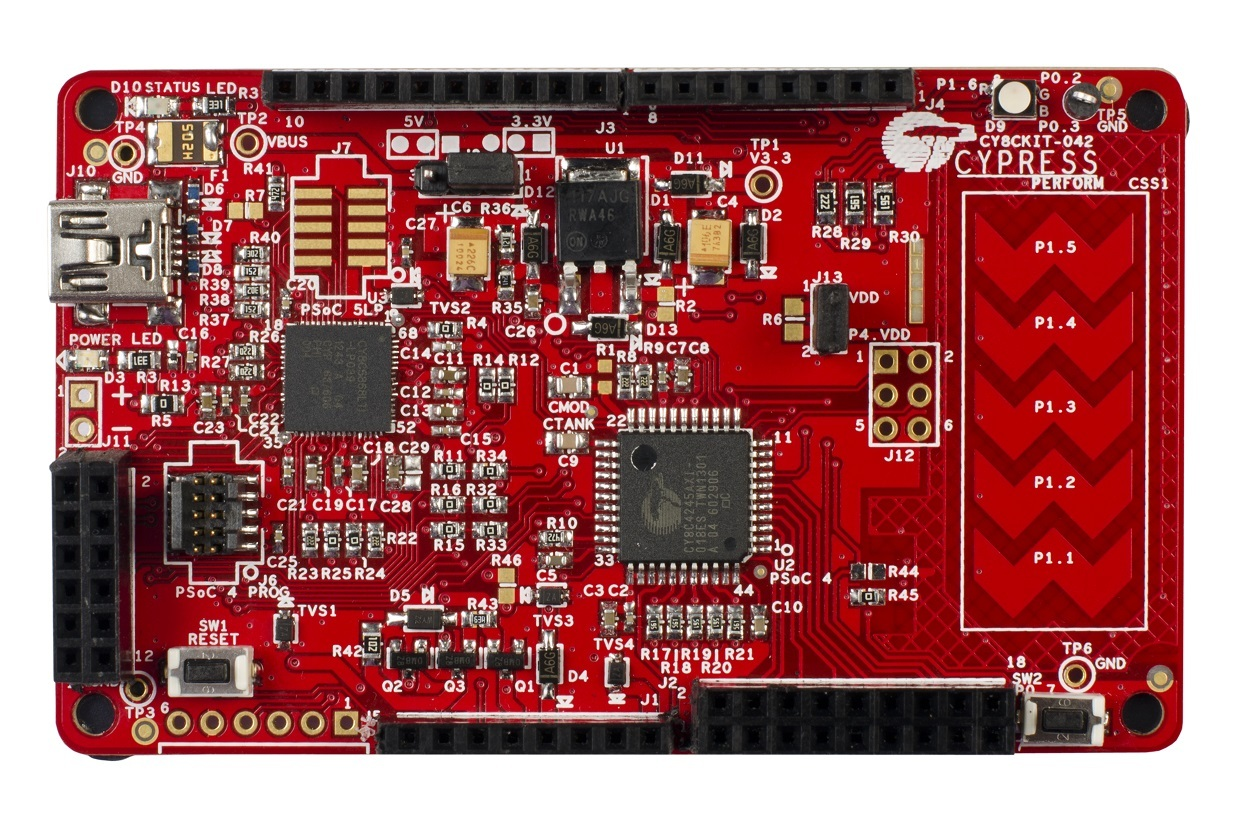
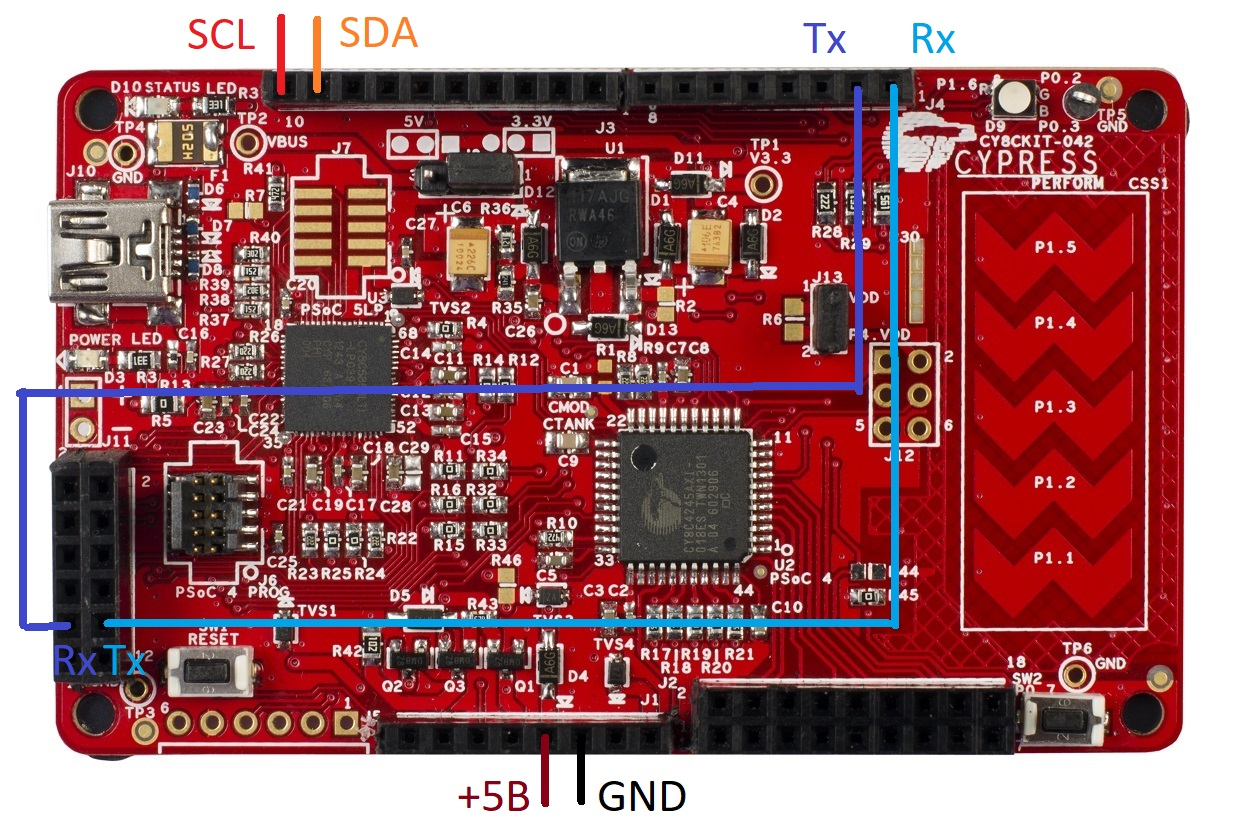
Text and pictures updates

diff --git a/manual/README.md b/manual/README.md
@@ -38,18 +38,24 @@
 
 ## Схема підключення ##
 
-| Сигнал        | Порт  | Вивід мікросхеми | Примітки |
-| ------------- | ----- | ---------------- | -------- |
-| i2c port: scl | P4[0] | 20               |          |
-| i2c port: sda | P4[1] | 21               |          |
-| UART port: rx | P0[4] | 28               |          |
-| UART port: tx | P0[5] | 29               |          |
-| + 5 B         |       |                  |          |
-| GRND          |       |                  |          |
+| Сигнал        | Порт  | Вивід мікросхеми | Примітки                    |
+| ------------- | ----- | ---------------- | --------------------------- |
+| i2c port: scl | P4[0] | 20               | З'єднати із scl ел. опору   |
+| i2c port: sda | P4[1] | 21               | З'єднати із sda ел. опору   |
+| UART port: rx | P0[4] | 28               | З'єднати із P12_7 (UART tx) |
+| UART port: tx | P0[5] | 29               | З'єднати із P12_6 (UART rx) |
+| + 5 B         |       |                  | З'єднати із землею БЖ       |
+| GND           |       |                  | З'єднати із +5В БЖ          |
 
 ![user-manual-6](pic\user-manual-6.jpg)
 
 ## Команди управління ##
+
+![user-manual-9](pic\user-manual-9.jpg)
+
+
+
+
 
 `Команда Мікросхема АЦП Положення регулятора`
 ` |       |          |   |`
@@ -83,5 +89,5 @@
 
 ### Realterm ###
 
-
 ### 
+
